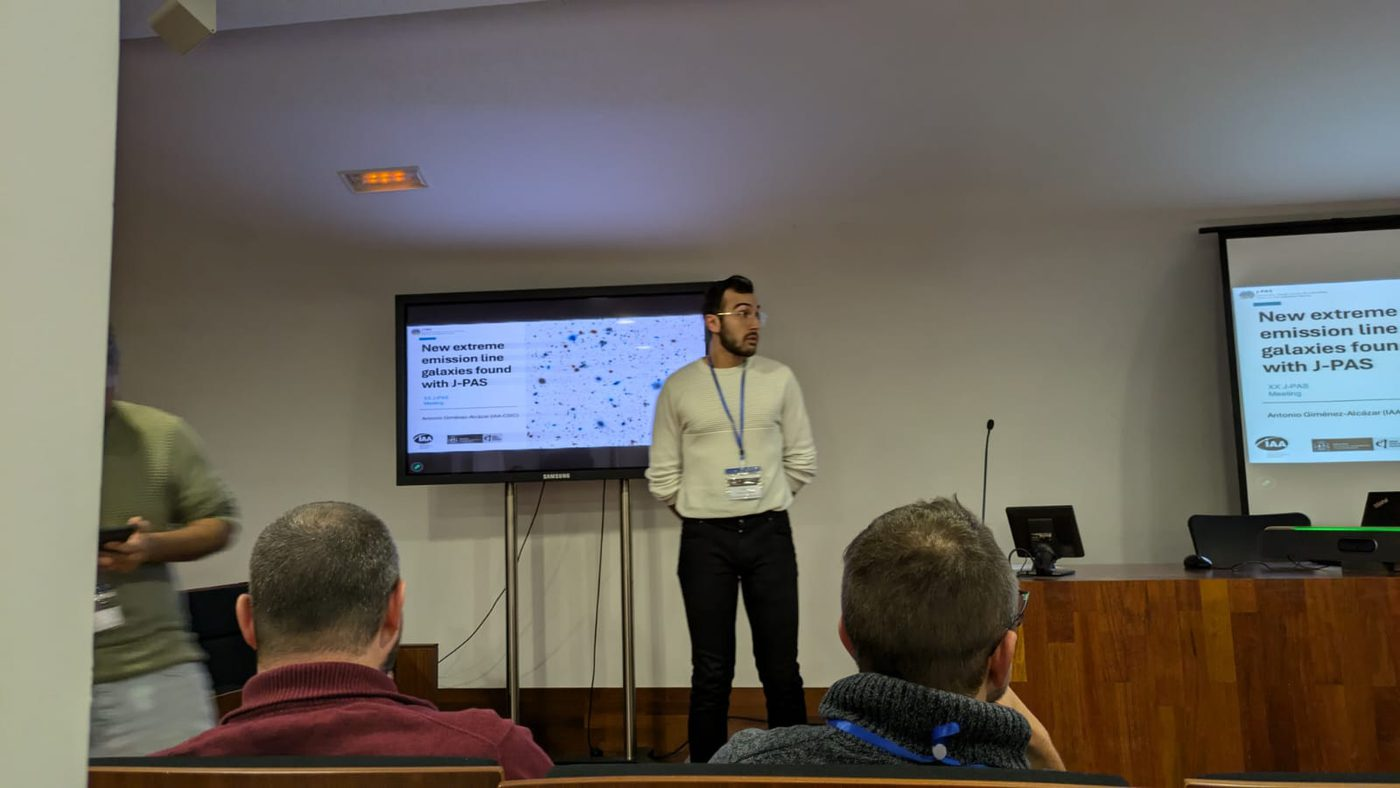
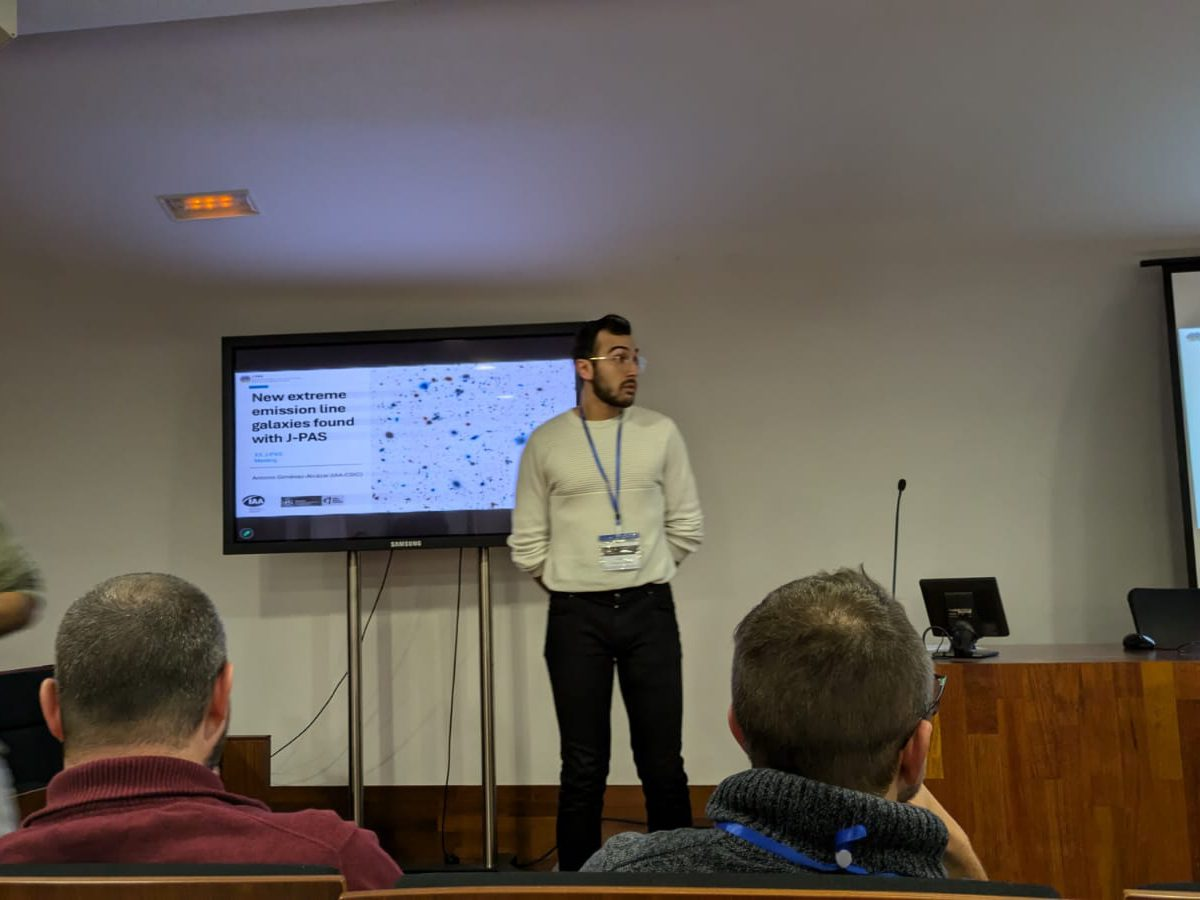
Even out the conference photo strip
The Crete photo was portrait and the J-PAS one 16:9, so the row of three sat
at ragged heights. Both are now cropped to 4:3 at source — chosen by eye so the
speaker and the slide survive — rather than letting CSS blind-crop them, and
the strip pins the ratio so a future swap cannot break the row again.

diff --git a/index.html b/index.html
@@ -349,12 +349,12 @@
         <figcaption>XVII Reunión Científica de la SEA · Tarragona, 2026</figcaption>
       </figure>
       <figure class="shot">
-        <img src="images/talk-crete.jpg" width="900" height="1200" loading="lazy"
+        <img src="images/talk-crete.jpg" width="1200" height="900" loading="lazy"
              alt="Presenting a slide titled J-PAS Survey at the Orthodox Academy of Crete">
         <figcaption>Escape of Lyman Radiation from Galactic Labyrinths · Crete, 2025</figcaption>
       </figure>
       <figure class="shot">
-        <img src="images/talk-jpas.jpg" width="1400" height="788" loading="lazy"
+        <img src="images/talk-jpas.jpg" width="1200" height="900" loading="lazy"
              alt="Presenting New extreme emission line galaxies found with J-PAS to a seated audience">
         <figcaption>XX J-PAS Meeting · 2024</figcaption>
       </figure>

diff --git a/style.css b/style.css
@@ -772,6 +772,14 @@ a:hover { color: var(--accent); }
 
 .shots-strip { margin: 0 0 44px; }
 
+/* The conference strip reads as a row, so every frame matches. The three
+   sources are cropped to 4:3 already; this just holds the line if one is
+   ever swapped for a photo of another shape. */
+.shots-strip .shot img {
+  aspect-ratio: 4 / 3;
+  object-fit: cover;
+}
+
 .shot { margin: 0; min-width: 0; }
 
 .shot img {
